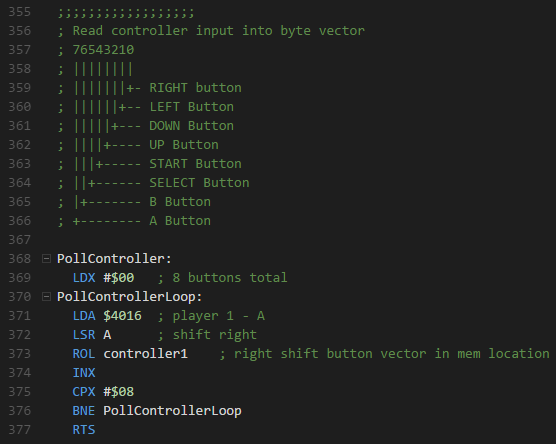
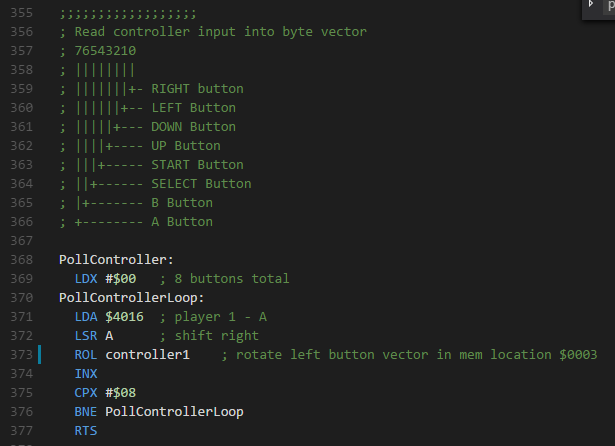
WIP time for bed

diff --git a/index.html b/index.html
@@ -313,7 +313,6 @@
                        <li>Controller 1 Port $4016</li>
                        <li>Controller 2 Port $4017</li>
                    </ul>
-                   <div>TODO Fix ROL comment ROL shifts all bits left one position. The Carry is shifted into bit 0 and the original bit 7 is shifted into the Carry.</div>
                    <img src="img/pollcontroller.png" alt="" class="big">
 
                  </section>
@@ -345,25 +344,84 @@
                 <section>
                     <h3>Sprites</h3>
                     <p>8x8 pixels a piece</p>
-                    <p>TODO IMAGE</p>
+                    <img src="img/sprites.png" alt="">
                 </section>
                 
                 <section>
                    <h3>Character Sprites</h3>
                    <ul>
-                       <li class="fragment">Drawn in the foreground</li>
-                       <li class="fragment">Think Mario, Koopa, Mega Man</li>
+                       <li class="fragment">Drawn in the foreground, like Mario</li>
                    </ul>
+                   <img src="img/bandit.gif" alt="" class="medium fragment">
                 </section>
 
                 <section>
                    <h3>Loading sprites into the PPU with DMA</h3>
-                   <p>TOD DMA LOADING CODE</p>
+                   <img src="img/loadspritesfromrom.png" alt=""><img src="img/loadspritesfromdma" alt="">
                 </section>
 
                 <section>
-                   <h3>Sprite Image Binary Layout</h3>
-                   <p>TODO BINARY FORMAT</p>
+                    <section>
+                        <h3>Sprite Image Binary Layout (16 bytes)</h3>
+                        <img src="img/tile.png" alt="">
+                        <img src="img/colors.png" alt="">
+                   </section>
+                   <section>
+                        
+                        <table>
+                            <thead>
+                                <tr>
+                                    <th>Channel 1</th>
+                                    <th>Channel 2</th>
+                                    <th>Color</th>
+                                </tr>
+                            </thead>
+                            <tbody>
+                                <tr>
+                                    <td>0000 0000</td>
+                                    <td>0000 0000</td>
+                                    <td>0000 0000</td>
+                                </tr>
+                                <tr>
+                                    <td>0000 0000</td>
+                                    <td>0000 0000</td>
+                                    <td>0000 0000</td>
+                                </tr>
+                                <tr>
+                                    <td>0000 0000</td>
+                                    <td>0000 0000</td>
+                                    <td>0000 0000</td>
+                                </tr>
+                                <tr>
+                                    <td>0000 0000</td>
+                                    <td>0000 0000</td>
+                                    <td>0000 0000</td>
+                                </tr>
+                                <tr>
+                                    <td>0000 0000</td>
+                                    <td>0000 0<span >111</span></td>
+                                    <td>0000 0<span style="color:blue">222</span></td>
+                                </tr>
+                                <tr>
+                                    <td>0000 0111</td>
+                                    <td>0000 1000</td>
+                                    <td>0000 <span style="color:blue">2</span><span style="color:aqua">111</span></td>
+                                </tr>
+                                <tr>
+                                    <td>0000 1111</td>
+                                    <td>0001 0000</td>
+                                    <td>000<span style="color:blue">2</span> <span style="color:aqua">1111</span></td>
+                                </tr>
+                                <tr>
+                                    <td>0000 1111</td>
+                                    <td>0001 0000</td>
+                                    <td>000<span style="color:blue">2</span> <span style="color:aqua">1111</span></td>
+                                </tr>
+                            </tbody>
+
+                        </table>
+
+                   </section>
                 </section>
 
                 <section>
@@ -378,53 +436,33 @@
                 </section>
 
                 <section>
-                   <h1>Background Sprites</h1>                 
+                   <h1>Background Sprites</h1>
                 </section>                
 
                 <section>
                    <h3>Name Table</h3>
                    <p>There are 4 name tables, but only really 2</p>
-                   </p>Background layout 32x30 = 960 bytes</p>
-                   <p>TODO PICTURE</p>
-                   <script type="text/template">
-     (0,0)     (256,0)     (511,0)
-       +-----------+-----------+
-       |           |           |
-       |           |           |
-       |   $2000   |   $2400   |
-       |           |           |
-       |           |           |
-(0,240)+-----------+-----------+(511,240)
-       |           |           |
-       |           |           |
-       |   $2800   |   $2C00   |
-       |           |           |
-       |           |           |
-       +-----------+-----------+
-     (0,479)   (256,479)   (511,479)
+                   <p>Background layout 32x30 = 960 bytes</p>
+                   
+                   
                    </script>
                 </section>
 
                 <section>
-                   <h3>Attribute Table</h3>
-                   Determine the colors of the background sprites
+                    <section>
+                        <h3>Attribute Table</h3>
+                        <p>Determine the colors of the background sprites</p>
+                        <p>32x32 grid</p>
+                        <img src="img/grid.png" alt="">
+                    </section>
+                    <section>
+                        <h3>Attribute Table Byte</h3>
+                        <img src="img/attribute.png" alt="">
+                    </section>
                 </section>
 
                 <section>
-                   <h1>The APU</h1>
-                   <ul>
-                       <li class="fragment">5 voices</li>
-                       <li class="fragment">2 square</li>
-                       <li class="fragment">1 triangle</li>
-                       <li class="fragment">1 noise</li>
-                       <li class="fragment">1 PCM sample</li>
-                   </ul>
-                </section>
-
-                <section>
-                   <h1>Nintendo ROM Layout</h1>
-                   PRG Rom
-                   CHR Rom
+                    <h1>Demo!</h1>
                 </section>
 
                 <section>
@@ -432,11 +470,21 @@
                    <ul>
                        <li>
                            <a href="https://wiki.nesdev.com/">NES Reference</a>
+                       </li>
+                       <li>                           
                            <a href="https://wiki.nesdev.com/w/index.php/PPU_programmer_reference">PPU Reference</a>
-                           <a href="">NESASM3</a>
+                       </li>
+                       <li>
+                           <a href="http://www.nespowerpak.com/nesasm/">NESASM3</a>
+                       </li>
+                       <li>
                            <a href="">Erik's Sprite Editor</a>
-                           <a href="">Nerdy Nights Tutorials</a>
-                           <a href=""></a>
+                       </li>
+                       <li>
+                           <a href="https://hexed.it/">hexed.it</a>
+                       </li>
+                       <li>
+                           <a href="http://nintendoage.com/forum/messageview.cfm?catid=22&threadid=7155">Nerdy Nights Tutorials</a>
                        </li>
                    </ul>
                 </section>
